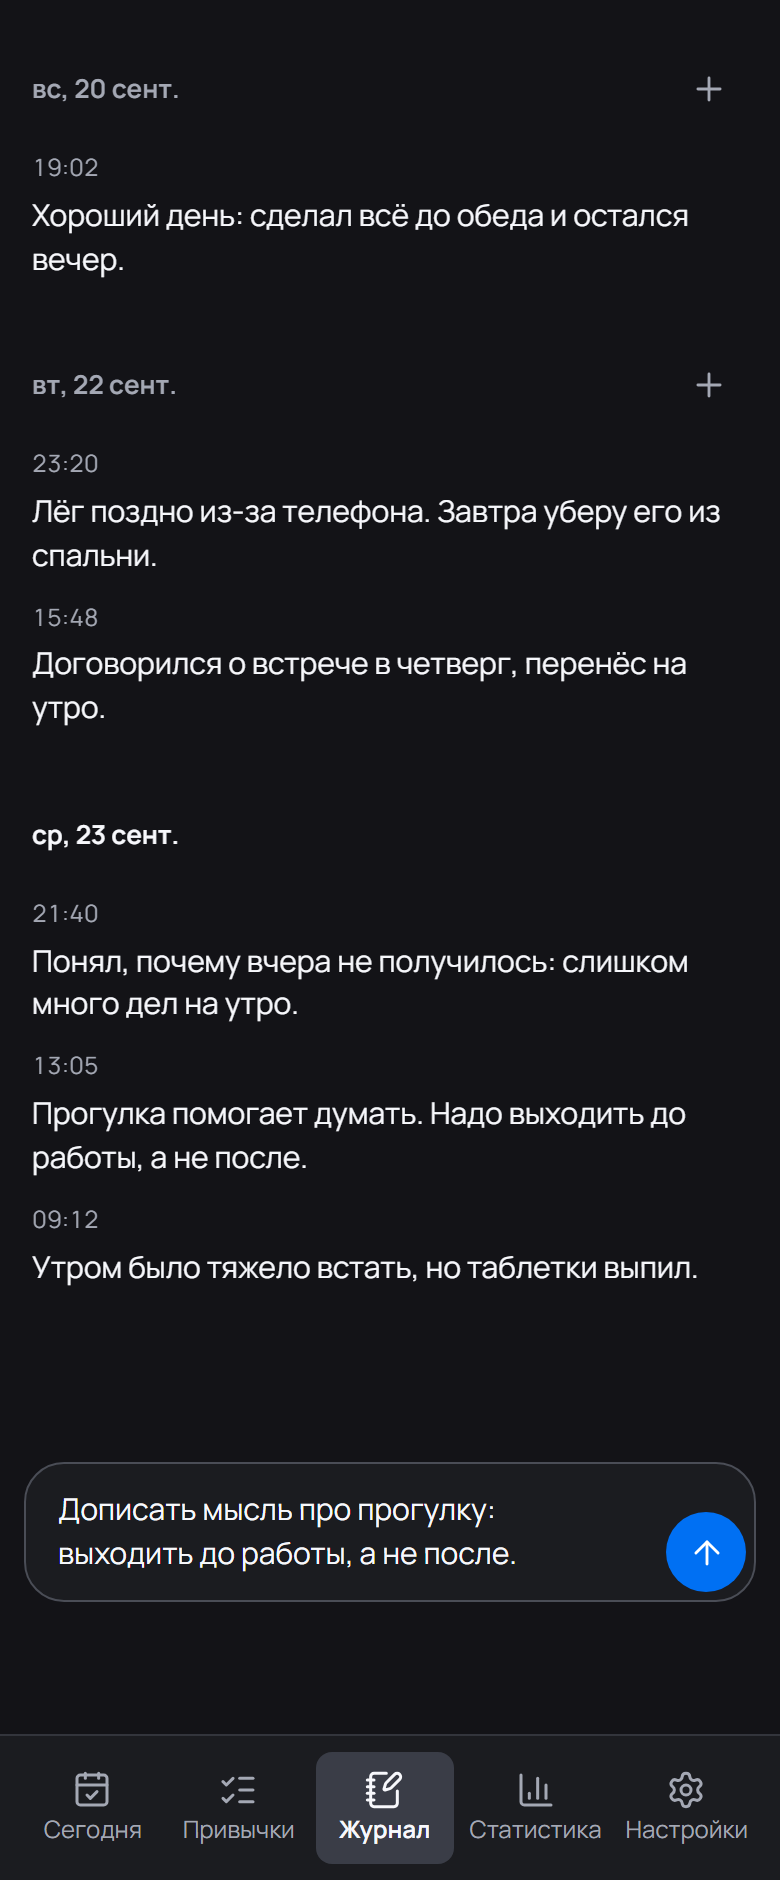
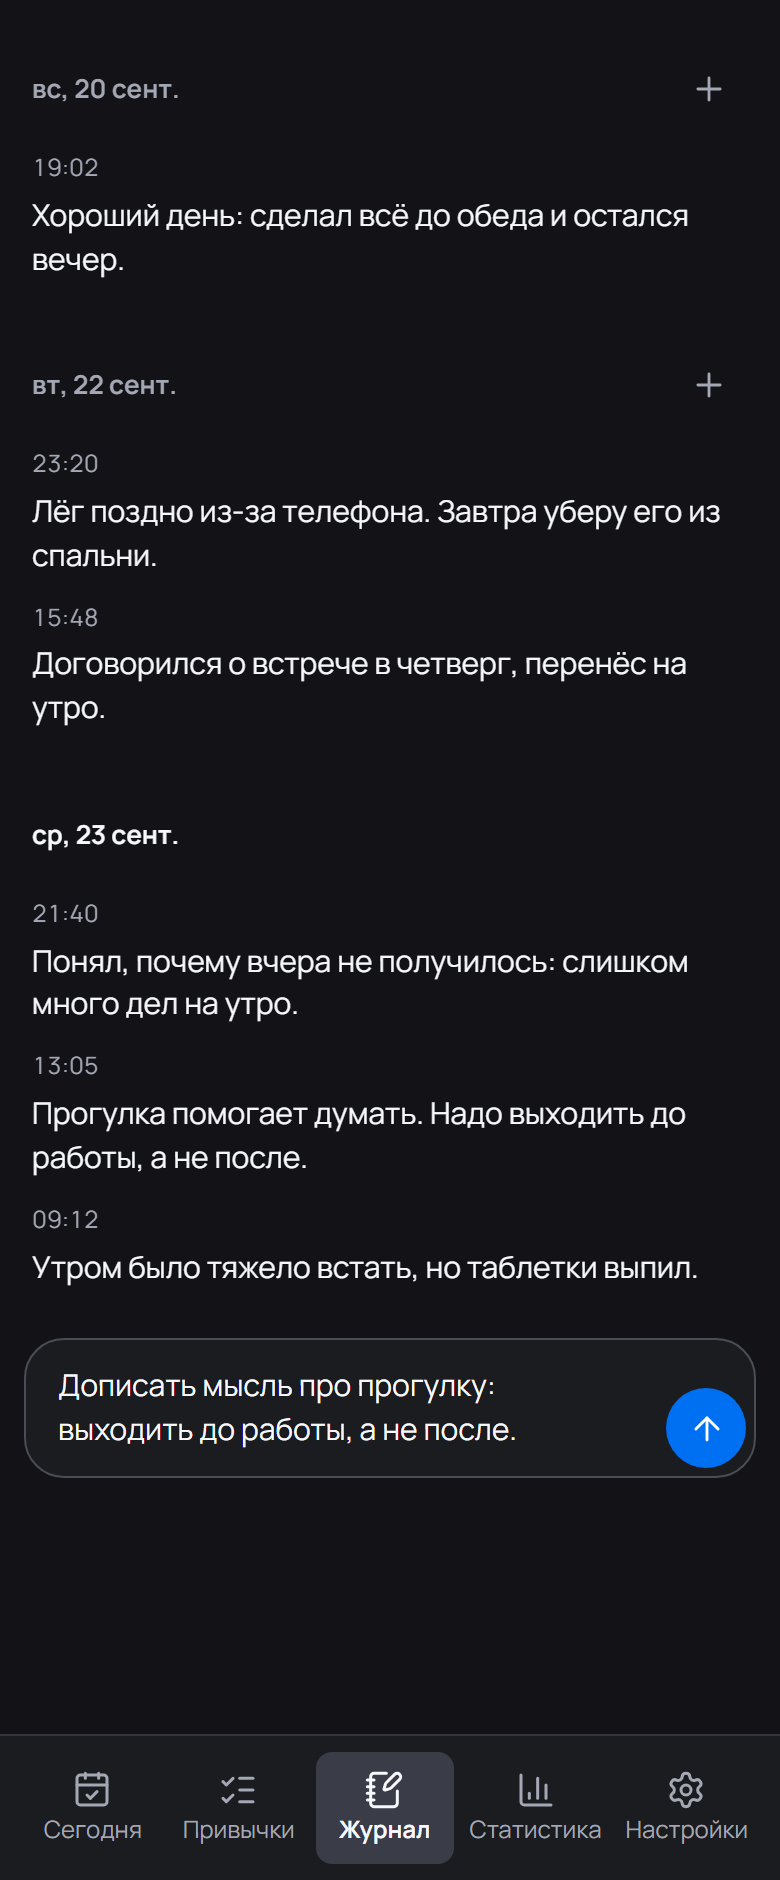
Воздух между последней заметкой и композером — 24px (0.11.1)
12px до рамки коробки читались как прилипание. Теперь над композером 24px, под ним до меню по-прежнему 12px.

Зазор сделан отдельным слоем .jfeed-end в разметке: padding у прокручиваемого окна не гарантирует зазор внизу (проверено замером), а слой гарантирует.

Changed region(s): [[0.0308, 0.7096, 0.6462, 0.833], [0.8308, 0.7404, 0.9846, 0.8638]]

diff --git a/src/styles.css b/src/styles.css
@@ -215,14 +215,27 @@ p {
 .jfeed {
   display: flex;
   flex: 1 1 auto;
+  flex-direction: column;
   min-height: 0;
   overflow-y: auto;
   -webkit-overflow-scrolling: touch;
   overscroll-behavior: contain;
-  /* Запас снизу = высота панели плюс её воздух сверху (`--s1`): тогда последняя
-     заметка при прокрутке до конца встаёт ровно в 12px над рамкой коробки — тот
-     же воздух, что и до меню. Проверено замером на телефоне и в e2e. */
-  padding: var(--s5) var(--s4) calc(var(--jbar, 60px) + var(--s1));
+  /* Запас снизу от прокрутки: воздух между лентой и композером добавляет
+     отдельный слой `.jfeed-end` в разметке, потому что padding у прокручиваемого
+     окна не гарантирует зазор внизу. */
+  padding: var(--s5) var(--s4) 0;
+}
+
+/* Лента занимает всё окно, а воздух до композера идёт после неё. */
+.journal {
+  flex: 1 0 auto;
+}
+
+/* Воздух между последней заметкой и композером. Он в разметке, а не в padding:
+   так он не зависит от того, как браузер считает низ прокрутки. */
+.jfeed-end {
+  flex: 0 0 auto;
+  height: var(--s5);
 }
 
 /* Клавиатура на телефоне может накрывать окно целиком, не уменьшая его: тогда

diff --git a/src/components/JournalView.tsx b/src/components/JournalView.tsx
@@ -412,6 +412,9 @@ export default function JournalView() {
             />
           ))}
         </div>
+        {/* Воздух между последней заметкой и композером: отдельным слоем, потому
+            что padding у прокручиваемого окна не гарантирует зазор внизу. */}
+        <div className="jfeed-end" aria-hidden="true" />
       </div>
 
       <div className="jbar" ref={barRef}>

diff --git a/src/lib/version.ts b/src/lib/version.ts
@@ -1,1 +1,1 @@
-export const APP_VERSION = '0.11.0';
+export const APP_VERSION = '0.11.1';

diff --git a/docs/technical.md b/docs/technical.md
@@ -165,9 +165,10 @@ scripts/
   `main` сверху, меню снизу, а в журнале между ними ещё и панель заметки. Прокручивается только лента
   (`.jfeed`), поэтому композер физически не может накрыть последнюю заметку — раньше он был `fixed`,
   а запас снизу считался формулой из высот, которую мерил JS. На телефоне этот замер соврал (16px
-  вместо 65), и заметка уезжала под панель. Запас у ленты — `--jbar` (измеренная высота панели) плюс
-  её воздух сверху, поэтому последняя заметка встаёт ровно в 12px над рамкой коробки, а коробка —
-  в 12px над меню.
+  вместо 65), и заметка уезжала под панель. Запас у ленты — слой `.jfeed-end` в разметке
+  (`--s5`, 24px) плюс воздух самой панели: `padding` у прокручиваемого окна не гарантирует зазор внизу,
+  а отдельный слой гарантирует. Над композером выходит 24px, под ним до меню — 12px: поле не выглядит
+  приклеенным к заметке, а меню не отрывается от него.
 - **Композер** (`.jbar` + `.jcomposer-box`) — одна скруглённая коробка (`--radius-lg`, 20px) во всю
   ширину панели; края держат `env(safe-area-inset-left/right)`, так что на телефоне с вырезом поле
   не липнет к самому краю. Внутри коробки справа внизу — круглая кнопка. Рамку и фон несёт коробка,
